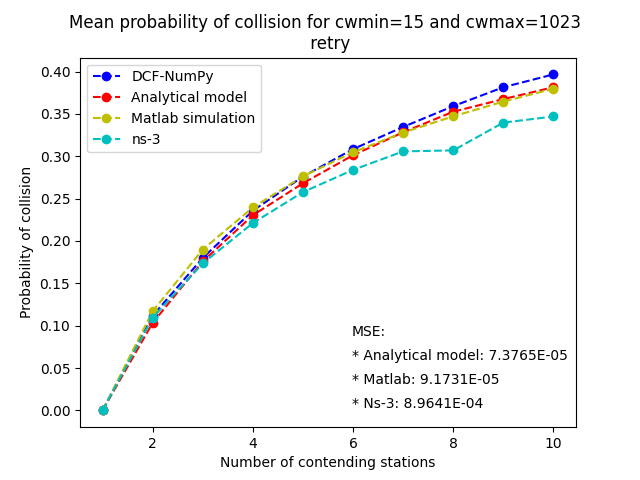
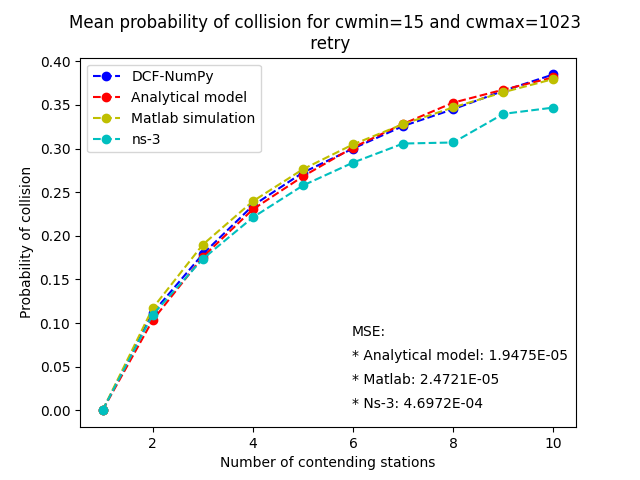
correct the retry limit in dcf NumPy simulation from 4 to 7

diff --git a/simulation.py b/simulation.py
@@ -23,7 +23,7 @@ def dcf_simulation(N, cw_min, cw_max, seed, data_rate = 54, control_rate = 6, ma
     """
 
     simulation_rounds  = 10000
-    retry_limit = 4
+    retry_limit = 7
     slot_time = 9e-6 #s
 
     successful = np.zeros(N) # successful transmissions per station
